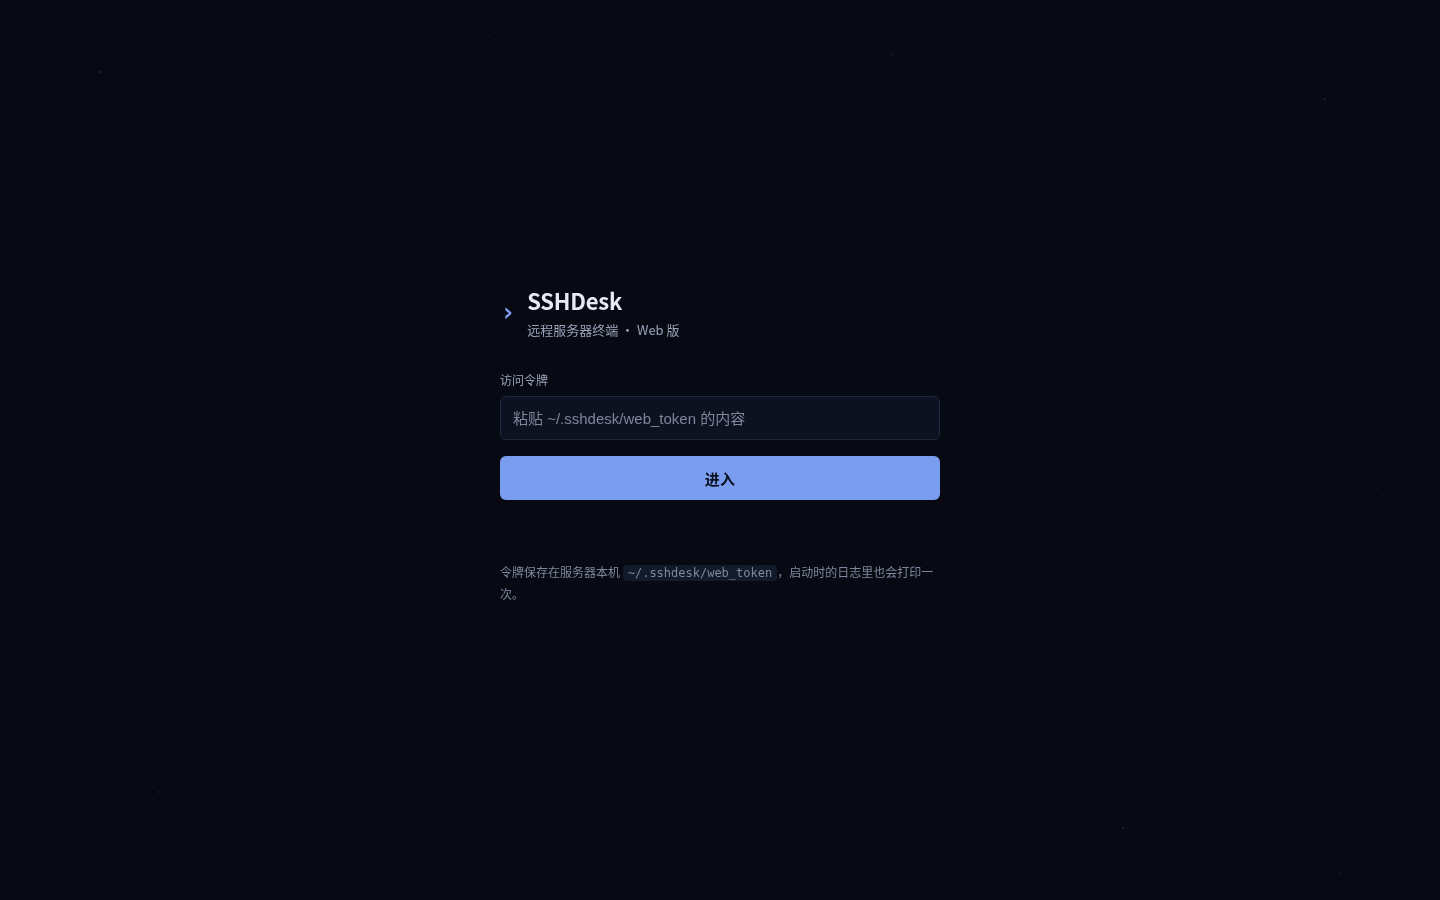
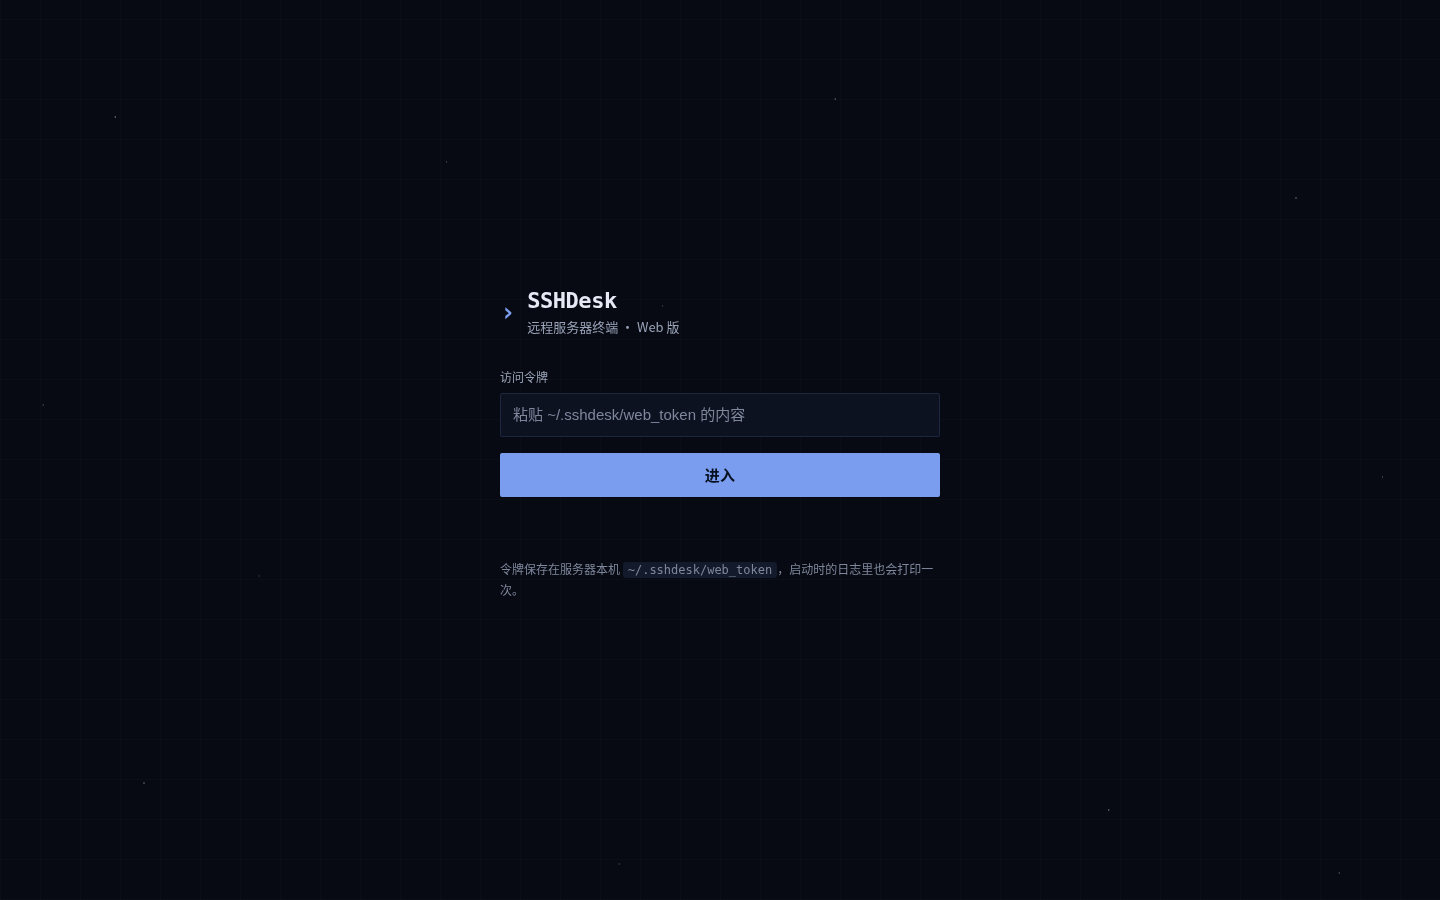
ui: 星空收成硬点+字符网格，桌面端空态改为画布星空，三端星点同源

Changed region(s): [[0.3438, 0.4044, 0.6562, 0.56], [0.3438, 0.6222, 0.6562, 0.6533], [0.375, 0.3111, 0.4688, 0.3733]]

diff --git a/sshdesk/web/static/style.css b/sshdesk/web/static/style.css
@@ -31,8 +31,9 @@
   --s1: 4px;  --s2: 8px;  --s3: 12px; --s4: 16px;
   --s5: 24px; --s6: 32px; --s7: 48px;
 
-  --radius: 6px;
+  --radius: 2px;
   --vh: 100dvh;
+  --grid: rgba(120, 145, 190, .028);
 }
 
 * { box-sizing: border-box; -webkit-tap-highlight-color: transparent; }
@@ -76,48 +77,30 @@ code {
   font-size: 12px;
 }
 
-/* 星空底：只铺在空场背景上，密度很低，不抢内容 */
-/* 星空底：只铺在空场背景上。点集中在四周，中间内容区保持干净，
-   亮度压到 .16–.40 —— 是背景里的一点尘埃，不是撒了一把盐 */
-/* 星空底：只铺在空场背景上。0.5px 半径 + 低亮度，
-   在 2x 屏上落成 1 个物理像素——是背景里的微光，不是白点 */
-/* 星空底：只铺在空场背景上，内容区留干净。
-   按"星等"分层——多数是极暗的微光，一两颗稍亮，才不像随机白点。
-   0.5px 半径在 2x 屏落成 1 个物理像素，边缘不糊。 */
+/* 星空底：两层含义叠在一起——
+   1) 深空底色：带蓝相的近黑，不是纯黑；
+   2) 一张几乎看不见的字符网格：40px 见方，透明度 .028。
+   终端本来就是按行列对齐的纯文本系统，背景理应是那张坐标纸。
+   星点是 1px 硬点（不做柔光），像设备指示灯，不像撒糖；
+   位置避开顶栏（0–56px 会被 topbar 盖住）与正文区。 */
 .starfield {
   background-color: var(--bg);
   background-image:
-    radial-gradient(.5px .5px at 7% 8%,   rgba(226, 236, 255, .62), transparent),
-    radial-gradient(.5px .5px at 34% 4%,  rgba(226, 236, 255, .26), transparent),
-    radial-gradient(.5px .5px at 62% 6%,  rgba(226, 236, 255, .38), transparent),
-    radial-gradient(.5px .5px at 92% 11%, rgba(226, 236, 255, .55), transparent),
-    radial-gradient(.5px .5px at 2% 47%,  rgba(226, 236, 255, .22), transparent),
-    radial-gradient(.5px .5px at 96% 55%, rgba(226, 236, 255, .24), transparent),
-    radial-gradient(.5px .5px at 11% 88%, rgba(226, 236, 255, .44), transparent),
-    radial-gradient(.5px .5px at 45% 96%, rgba(226, 236, 255, .20), transparent),
-    radial-gradient(.5px .5px at 78% 92%, rgba(226, 236, 255, .52), transparent),
-    radial-gradient(.5px .5px at 93% 97%, rgba(226, 236, 255, .30), transparent);
-  background-repeat: no-repeat;
-}
-
-/* 宽屏视野更阔，补几颗，密度才不至于被摊薄 */
-@media (min-width: 900px) {
-  .starfield {
-    background-image:
-      radial-gradient(1px 1px at 7% 8%,   rgba(226, 236, 255, .40), transparent),
-      radial-gradient(1px 1px at 34% 4%,  rgba(226, 236, 255, .16), transparent),
-      radial-gradient(1px 1px at 62% 6%,  rgba(226, 236, 255, .24), transparent),
-      radial-gradient(1px 1px at 92% 11%, rgba(226, 236, 255, .34), transparent),
-      radial-gradient(1px 1px at 24% 22%, rgba(226, 236, 255, .13), transparent),
-      radial-gradient(1px 1px at 76% 26%, rgba(226, 236, 255, .15), transparent),
-      radial-gradient(1px 1px at 2% 47%,  rgba(226, 236, 255, .14), transparent),
-      radial-gradient(1px 1px at 96% 55%, rgba(226, 236, 255, .15), transparent),
-      radial-gradient(1px 1px at 11% 88%, rgba(226, 236, 255, .28), transparent),
-      radial-gradient(1px 1px at 45% 96%, rgba(226, 236, 255, .13), transparent),
-      radial-gradient(1px 1px at 78% 92%, rgba(226, 236, 255, .32), transparent),
-      radial-gradient(1px 1px at 93% 97%, rgba(226, 236, 255, .18), transparent);
-    background-repeat: no-repeat;
-  }
+    radial-gradient(1px 1px at 8% 13%, rgba(214, 228, 255, 0.8), transparent),
+    radial-gradient(1px 1px at 31% 18%, rgba(214, 228, 255, 0.44), transparent),
+    radial-gradient(1px 1px at 58% 11%, rgba(214, 228, 255, 0.62), transparent),
+    radial-gradient(1px 1px at 90% 22%, rgba(214, 228, 255, 0.74), transparent),
+    radial-gradient(1px 1px at 46% 34%, rgba(214, 228, 255, 0.34), transparent),
+    radial-gradient(1px 1px at 18% 64%, rgba(214, 228, 255, 0.32), transparent),
+    radial-gradient(1px 1px at 3% 45%, rgba(214, 228, 255, 0.46), transparent),
+    radial-gradient(1px 1px at 96% 53%, rgba(214, 228, 255, 0.48), transparent),
+    radial-gradient(1px 1px at 10% 87%, rgba(214, 228, 255, 0.7), transparent),
+    radial-gradient(1px 1px at 43% 96%, rgba(214, 228, 255, 0.42), transparent),
+    radial-gradient(1px 1px at 77% 90%, rgba(214, 228, 255, 0.78), transparent),
+    radial-gradient(1px 1px at 93% 97%, rgba(214, 228, 255, 0.54), transparent),
+    repeating-linear-gradient(0deg, rgba(120, 145, 190, .028) 0 1px, transparent 1px 40px),
+    repeating-linear-gradient(90deg, rgba(120, 145, 190, .028) 0 1px, transparent 1px 40px);
+  background-repeat: no-repeat, no-repeat, no-repeat, no-repeat, no-repeat, no-repeat, no-repeat, no-repeat, no-repeat, no-repeat, no-repeat, no-repeat, repeat, repeat;
 }
 
 /* ---------------- 登录 ---------------- */
@@ -139,7 +122,13 @@ code {
   line-height: 1;
   letter-spacing: -0.02em;
 }
-.brand h1 { margin: 0; font-size: 22px; font-weight: 600; letter-spacing: -0.01em; }
+.brand h1 {
+  margin: 0;
+  font-family: ui-monospace, "SF Mono", Menlo, Consolas, monospace;
+  font-size: 22px;
+  font-weight: 600;
+  letter-spacing: -0.02em;
+}
 .muted { color: var(--muted); font-size: 13px; margin: var(--s1) 0 0; }
 
 .field { display: block; margin: var(--s6) 0 var(--s4); }
@@ -326,7 +315,7 @@ button {
   padding: var(--s4) var(--s4) calc(env(safe-area-inset-bottom) + var(--s4));
   max-height: 62vh;
   overflow-y: auto;
-  box-shadow: 0 -8px 24px rgba(0, 0, 0, .45);
+  box-shadow: 0 -4px 14px rgba(0, 0, 0, .55);
   z-index: 10;
 }
 .sheet-head { display: flex; align-items: center; justify-content: space-between; margin-bottom: var(--s3); }

diff --git a/sshdesk/ui/app.py b/sshdesk/ui/app.py
@@ -47,6 +47,47 @@ DEMO_SCREEN = (
 )
 
 
+# 空态背景：深空 + 40px 字符网格 + 1px 硬星点。
+# 桌面端不能像 CSS 那样叠背景图，只能在 Canvas 上把这些画出来；
+# 位置与 Web 端保持同一套百分比，两边看起来才是同一个世界。
+STARS = [
+    (8, 13, .80), (31, 18, .44), (58, 11, .62), (90, 22, .74),
+    (46, 34, .34), (18, 64, .32),
+    (3, 45, .46), (96, 53, .48),
+    (10, 87, .70), (43, 96, .42), (77, 90, .78), (93, 97, .54),
+]
+_GRID = "#0b0f17"
+
+
+def _star_color(o: float) -> str:
+    base, top = (7, 10, 18), (214, 228, 255)
+    r, g, b = (int(a + (b_ - a) * o) for a, b_ in zip(base, top))
+    return f"#{r:02x}{g:02x}{b:02x}"
+
+
+def paint_starscape(canvas: tk.Canvas, title: str = "", body: str = "") -> None:
+    canvas.delete("all")
+    w, h = canvas.winfo_width(), canvas.winfo_height()
+    if w < 2 or h < 2:
+        return
+    for x in range(0, w, 40):
+        canvas.create_line(x, 0, x, h, fill=_GRID)
+    for y in range(0, h, 40):
+        canvas.create_line(0, y, w, y, fill=_GRID)
+    for px, py, o in STARS:
+        x, y = int(w * px / 100), int(h * py / 100)
+        if 0 <= x < w - 1 and 0 <= y < h - 1:
+            c = _star_color(o)
+            canvas.create_oval(x, y, x + 1, y + 1, fill=c, outline=c)
+    if title:
+        canvas.create_text(w // 2, h // 2 - 44, text=title, fill=FG,
+                           font=ui_font(16, "bold"))
+    if body:
+        canvas.create_text(w // 2, h // 2 + 6, text=body, fill=FG_MUTED,
+                           font=ui_font(10), justify="center", width=max(240, w - 120))
+
+
+
 class App(tk.Tk):
     def __init__(self, demo: bool = False) -> None:
         super().__init__()
@@ -73,8 +114,9 @@ class App(tk.Tk):
         header = tk.Frame(self, bg=PANEL, height=56)
         header.pack(fill="x")
         header.pack_propagate(False)
+        # 产品名用等宽字：这套界面的第一句话就该是"这是个文本系统"
         tk.Label(header, text="SSHDesk", bg=PANEL, fg=ACCENT,
-                 font=ui_font(15, "bold")).pack(side="left", padx=(18, 8))
+                 font=mono_font(15, "bold")).pack(side="left", padx=(18, 8))
         tk.Label(header, text="本地桌面 SSH 运维客户端", bg=PANEL, fg=FG_MUTED,
                  font=ui_font(9)).pack(side="left", pady=(4, 0))
         ttk.Button(header, text="批量执行", style="Ghost.TButton",
@@ -96,12 +138,17 @@ class App(tk.Tk):
         self.empty_state = tk.Frame(self.notebook, bg=BG)
         self.notebook.add(self.empty_state, text="   ")
         self._empty_visible = True
-        tk.Label(self.empty_state, text="还没有打开的会话", bg=BG, fg=FG,
-                 font=ui_font(16, "bold")).pack(pady=(150, 8))
-        tk.Label(self.empty_state,
-                 text="在左侧选中一台服务器，点「连接」或直接双击。\n"
-                      "首次连接会核对主机指纹；连不上时点「连接诊断」按步骤排查。",
-                 bg=BG, fg=FG_MUTED, font=ui_font(10), justify="center").pack()
+        self.empty_canvas = tk.Canvas(self.empty_state, bg=BG, highlightthickness=0, bd=0)
+        self.empty_canvas.pack(fill="both", expand=True)
+        self.empty_canvas.bind(
+            "<Configure>",
+            lambda _e: paint_starscape(
+                self.empty_canvas,
+                "还没有打开的会话",
+                "在左侧选中一台服务器，点「连接」或直接双击。\n"
+                "首次连接会核对主机指纹；连不上时点「连接诊断」按步骤排查。",
+            ),
+        )
         # ttk.Notebook 只有 hide()，没有 show()，所以空状态页用 add/forget 动态管理
 
         status_bar = tk.Frame(self, bg=PANEL, height=30)

diff --git a/sshdesk/ui/theme.py b/sshdesk/ui/theme.py
@@ -33,12 +33,12 @@ UI_CANDIDATES = [
 ]
 
 
-def mono_font(size: int = 10) -> tuple[str, int]:
+def mono_font(size: int = 10, weight: str = "normal") -> tuple[str, int, str]:
     available = set(tkfont.families())
     for name in MONO_CANDIDATES:
         if name in available:
-            return (name, size)
-    return ("TkFixedFont", size)
+            return (name, size, weight)
+    return ("TkFixedFont", size, weight)
 
 
 def ui_font(size: int = 9, weight: str = "normal") -> tuple[str, int, str]:
@@ -72,9 +72,9 @@ def apply_theme(root: tk.Misc) -> None:
                     font=ui_font(18, "bold"))
     style.configure("Accent.TButton", background=ACCENT, foreground="#ffffff",
                     borderwidth=0, focusthickness=0, padding=(12, 6))
-    style.map("Accent.TButton", background=[("active", "#a695ff"), ("disabled", "#332c4c")])
+    style.map("Accent.TButton", background=[("active", ACCENT_2), ("disabled", BORDER)])
     style.configure("TButton", background=PANEL_ALT, foreground=FG, borderwidth=0, padding=(10, 5))
-    style.map("TButton", background=[("active", BORDER), ("disabled", "#232036")])
+    style.map("TButton", background=[("active", BORDER), ("disabled", PANEL_ALT)])
     style.configure("Ghost.TButton", background=BG, foreground=FG_MUTED, borderwidth=0, padding=(8, 4))
     style.map("Ghost.TButton", background=[("active", PANEL)])
     style.configure("TEntry", fieldbackground=PANEL_ALT, foreground=FG,

diff --git a/sshdesk/ui/terminal_view.py b/sshdesk/ui/terminal_view.py
@@ -68,7 +68,7 @@ class TerminalView(ttk.Frame):
         self.text = tk.Text(
             self, bg=TERM_BG, fg=TERM_FG, insertbackground=TERM_FG, font=mono,
             wrap="none", undo=False, highlightthickness=0, borderwidth=0,
-            padx=8, pady=6, selectbackground="#3a2f5e", selectforeground="#ffffff",
+            padx=8, pady=6, selectbackground="#1d2b4a", selectforeground="#ffffff",
             cursor="xterm", spacing1=0, spacing2=0, spacing3=0,
         )
         scroll = ttk.Scrollbar(self, orient="vertical", command=self.text.yview)

diff --git a/docs/DESIGN-AUDIT.md b/docs/DESIGN-AUDIT.md
@@ -27,23 +27,40 @@ Impeccable 的 Operate 模式有一条关键的判断：
 
 ---
 
-## 星空这套配色是怎么定的
+## 星空的严肃性，和 Linux 的严肃性
 
-用户给的定调是「深色 + 星空点缀」，并明确要避开渐变紫、毛玻璃、同质化卡片。
+用户最后给的定调只有一句：**「要把星空的严肃深邃和 Linux 作为纯文本系统的严肃结合在一起」**。
+这句话排除了一整类做法——星空不是浪漫的、不是撒糖的、不是深紫配光晕的那种"宇宙感海报"。
+它要的是两样东西叠在一起：**背景的深度**，和**前景的秩序**。
 
-落地时做了三个决定：
+由此定了四条，每条都能在代码里找到落点：
 
-1. **底色不是纯黑，是带蓝相的深空**：`#070a12`（终端区更暗 `#04060d`）。
-   纯黑会让文字边缘发硬，久了眼睛累；带一点蓝相更接近夜空的实际观感。
-2. **星点是"星等分层"，不是随机撒点**：10 颗点里，少数稍亮（`.40`），多数是几乎看不见的微光（`.13`）。
-   真实星空不是均匀的，全部一个亮度看起来就像屏幕坏点。
-3. **星点只出现在没有内容的空场**：登录页、列表页的背景。
-   终端区一点星都不放——那是要读字符的地方，背景必须绝对干净。
+**1）深空底色，不是纯黑。** `#070a12`（终端区 `#04060d`）。
+纯黑让文字边缘发硬、久看发累；带一点蓝相才像夜空。但它必须暗到"几乎不反射"，否则星星就浮在灰面上。
 
-还有一个技术细节：星点用 `radial-gradient`，半径在移动端写 `0.5px`、宽屏写 `1px`。
-因为手机上 DPR 通常是 2~3，`1px` 会被渲染成一个 2~3 物理像素的硬边方块，看着像脏点；
-`0.5px` 才落成 1 个物理像素的柔光。而 PC 的 DPR=1，`0.5px` 会被抗锯齿抹成灰雾，所以宽屏必须换回 `1px`。
-同一个设计在两种屏幕上要写两套参数，这是屏幕密度差异，不是响应式偷懒。
+**2）星点是 1px 硬点，像设备指示灯，不做柔光。**
+`radial-gradient(1px 1px at …)`，没有 blur、没有 glow。亮度按星等分层（`.32` 到 `.80`），
+12 颗，位置全部避开顶栏（0–56px 会被 topbar 盖住）和正文区。
+一个小细节：星点坐标是**三端共用的同一张百分比表**——
+Web 的 CSS、tkinter 的 Canvas、CLI 演示图的 PIL 画的都是它，所以三个界面里的星空是同一片星空。
+
+**3）背景铺一张几乎看不见的字符网格：40px 见方，`rgba(120,145,190,.028)`。**
+这是整套设计里唯一带"隐喻"的地方，也是最能回答用户那句话的地方：
+终端本来就是按行列对齐的纯文本系统，光标、缩进、表格全靠列对齐。
+那么它的背景理应是**那张坐标纸**，而不是一张装饰图。
+透明度压到 `.028`：看得见格子，但说不清是格子——一旦压不住，就变成 Excel 底纹（第一版 `.05` / 32px 就是这个下场，被自己否掉了）。
+
+**4）方角，等宽字。** `--radius: 2px`（原来是 6px）。
+圆角会把硬边系统拉回"移动端 App 模板"，而终端里没有一个圆角。
+产品名 `SSHDesk` 用等宽字排——界面上的第一句话就该说明：这是一套文本系统。
+
+| | 之前（AI 烂大街版） | 现在 |
+|---|---|---|
+| 星点 | 12px 模糊光斑，随机撒 | 1px 硬点，固定坐标，按星等分层 |
+| 背景 | 纯渐变 | 深空 + 40px 字符网格 |
+| 圆角 | 6px，卡片套卡片 | 2px，行式列表不套卡片 |
+| 产品名 | 无衬线粗体 | 等宽字 |
+| 强调 | 紫色渐变 + 光晕 | 单色 `#7b9df0`，无光晕 |
 
 ---
 

diff --git a/docs/DEMO.md b/docs/DEMO.md
@@ -119,7 +119,25 @@ FastAPI WebSocket  ──►  paramiko  ──►  远端 sshd  ──►  bash 
 
 ---
 
-## 六、三分钟跑起来
+## 六、桌面版（tkinter）长什么样
+
+![桌面版界面](pc-app-preview.png)
+
+左边是服务器列表（名称 / 地址两列），右边是会话区。
+没有会话时，会话区不是一块空的浅灰面板，而是**一片星空加一张 40px 的字符网格**，
+中间两行字告诉你下一步该做什么：选中服务器 → 点「连接」或双击；首次连接会核对主机指纹；连不上点「连接诊断」。
+
+星空在这里不是贴图，是 `tk.Canvas` 上用 `create_oval` 逐个画的 1px 点，
+和 Web 端用的是同一张百分比坐标表——所以桌面上和浏览器里的星星位置完全一样。
+
+> 这张图是**按真实控件参数渲染的预览**，不是真机截图：
+> 容器里的 Tk 8.6 在 Xvfb 下会直接 abort（`[xcb] Unknown sequence number`），
+> 所以桌面 GUI 拍不了照。尺寸（header 56 / 侧栏 272 / 状态栏 30）、色板、文案都取自代码，
+> 在你自己的电脑上运行 `python -m sshdesk` 看到的就是这个布局。
+
+---
+
+## 七、三分钟跑起来
 
 ```bash
 git clone <你的仓库地址> && cd sshdesk
@@ -144,7 +162,7 @@ python -m sshdesk web --port 8080
 
 ---
 
-## 七、测试
+## 八、测试
 
 ```bash
 pytest -q
@@ -156,7 +174,7 @@ SSH config 解析、Web 接口鉴权与关闭码。其中 `core/` 与 `web/` 的
 
 ---
 
-## 八、当前限制（如实写）
+## 九、当前限制（如实写）
 
 - 桌面版（tkinter）需要本机有显示环境；无头服务器上跑 `gui` 会直接报错，用 Web 版。
 - Web 版默认走 HTTP，令牌会明文过网。放到公网请套 Nginx + HTTPS，
